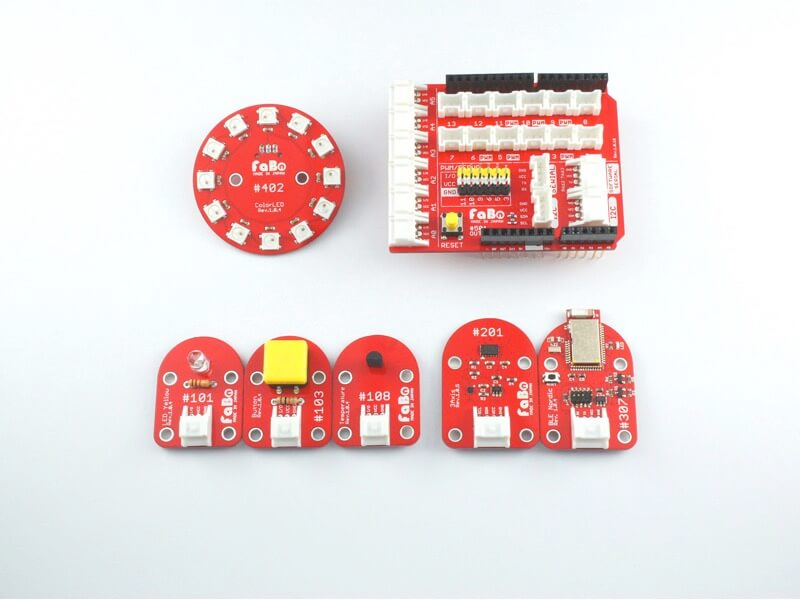
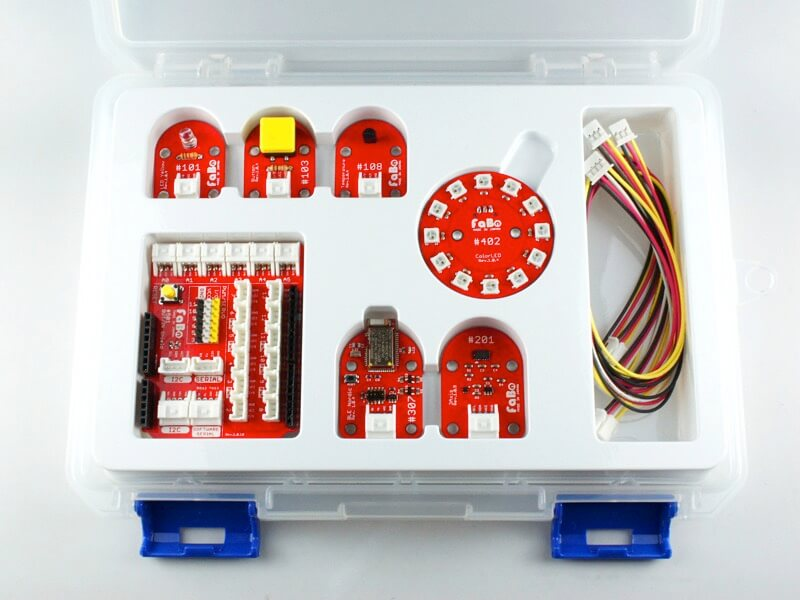
change starterkit

diff --git a/002_starterkit_arduino.md b/002_starterkit_arduino.md
@@ -7,6 +7,10 @@
 ## Overview
 Arduinoで、FaBo Brickをちょっと使ってみたい！という方に、手軽にはじめられるキットです。
 
+![](/img/001_starterkit/docs/002_doc.jpg)
+
+専用ケースに入れてお届けします。
+
 Arduino本体は含まれません。別途、お買い求めください。
 
 ## 内容物一覧
